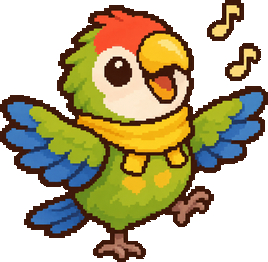
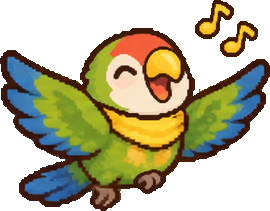
Parrot happy redrawn from the original pose so it matches the other frames
Claude-Session: https://claude.ai/code/session_016CQekzpGhANorfRCZx2is2

diff --git a/index.html b/index.html
@@ -432,7 +432,7 @@ const isLive=()=>MODE==='live';
 const PETS={
   shiba:{label:'柴犬',def:'小柴',tap:'huff',h:{idle:256,happy:270,sleep:208,alert:252}},
   beagle:{label:'米格魯',def:'豆豆',tap:'hop2',h:{idle:219,happy:250,sleep:203,alert:241}},
-  parrot:{label:'鸚鵡',def:'啾啾',tap:'dance',h:{idle:185,happy:262,sleep:175,alert:199}},
+  parrot:{label:'鸚鵡',def:'啾啾',tap:'dance',h:{idle:185,happy:211,sleep:175,alert:199}},
   /* 4th mascot: hidden from the picker until assets/cat_idle.png exists; sizes are read from the images */
   cat:{label:'貓咪',def:'捨令',tap:'rub',lie:{sleep:1},h:{idle:256,happy:256,sleep:200,alert:256},auto:true}};
 const AVAIL={shiba:true,beagle:true,parrot:true};

diff --git a/sw.js b/sw.js
@@ -1,5 +1,5 @@
 // 像素行程夥伴 service worker：離線快取。改了檔案後把 VERSION 加 1，手機才會抓到新版。
-const VERSION='v24';
+const VERSION='v25';
 const CACHE='pixel-pal-'+VERSION;
 const CORE=['./','index.html','manifest.webmanifest','icons/icon-192.png','icons/icon-512.png','icons/apple-touch-icon.png','vendor/supabase-2.118.0.js',
   'assets/badge.png',
